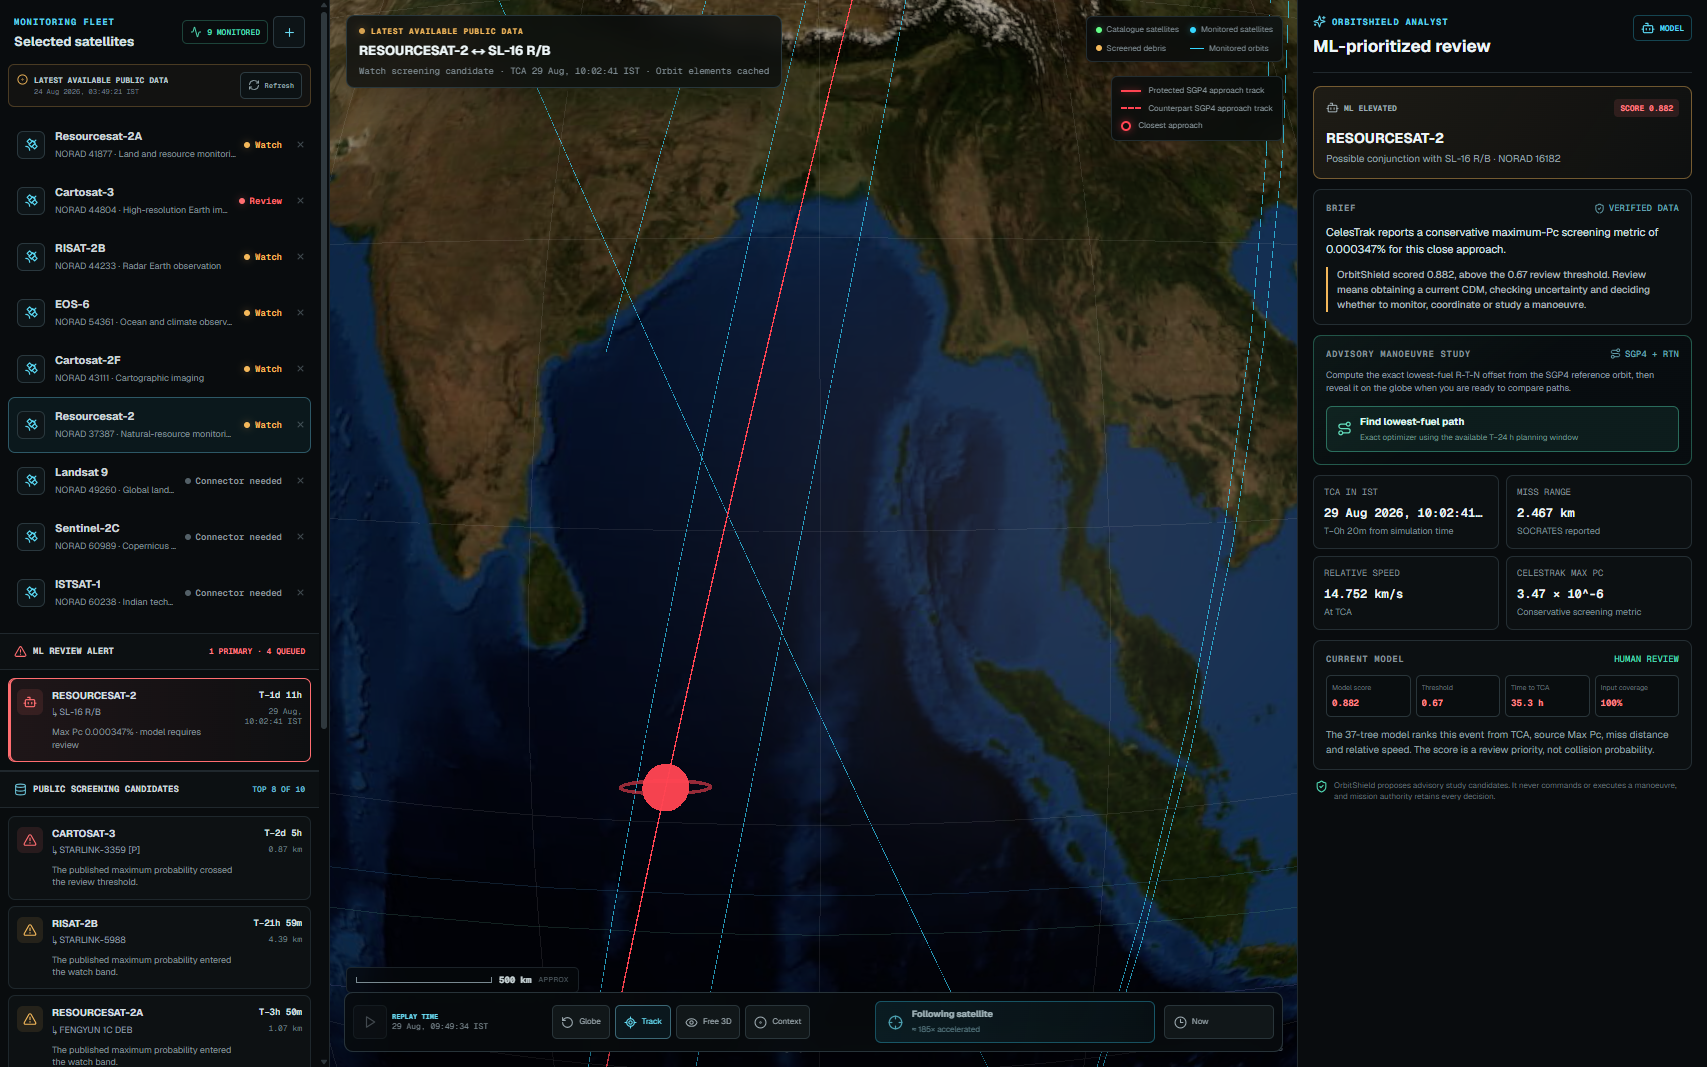
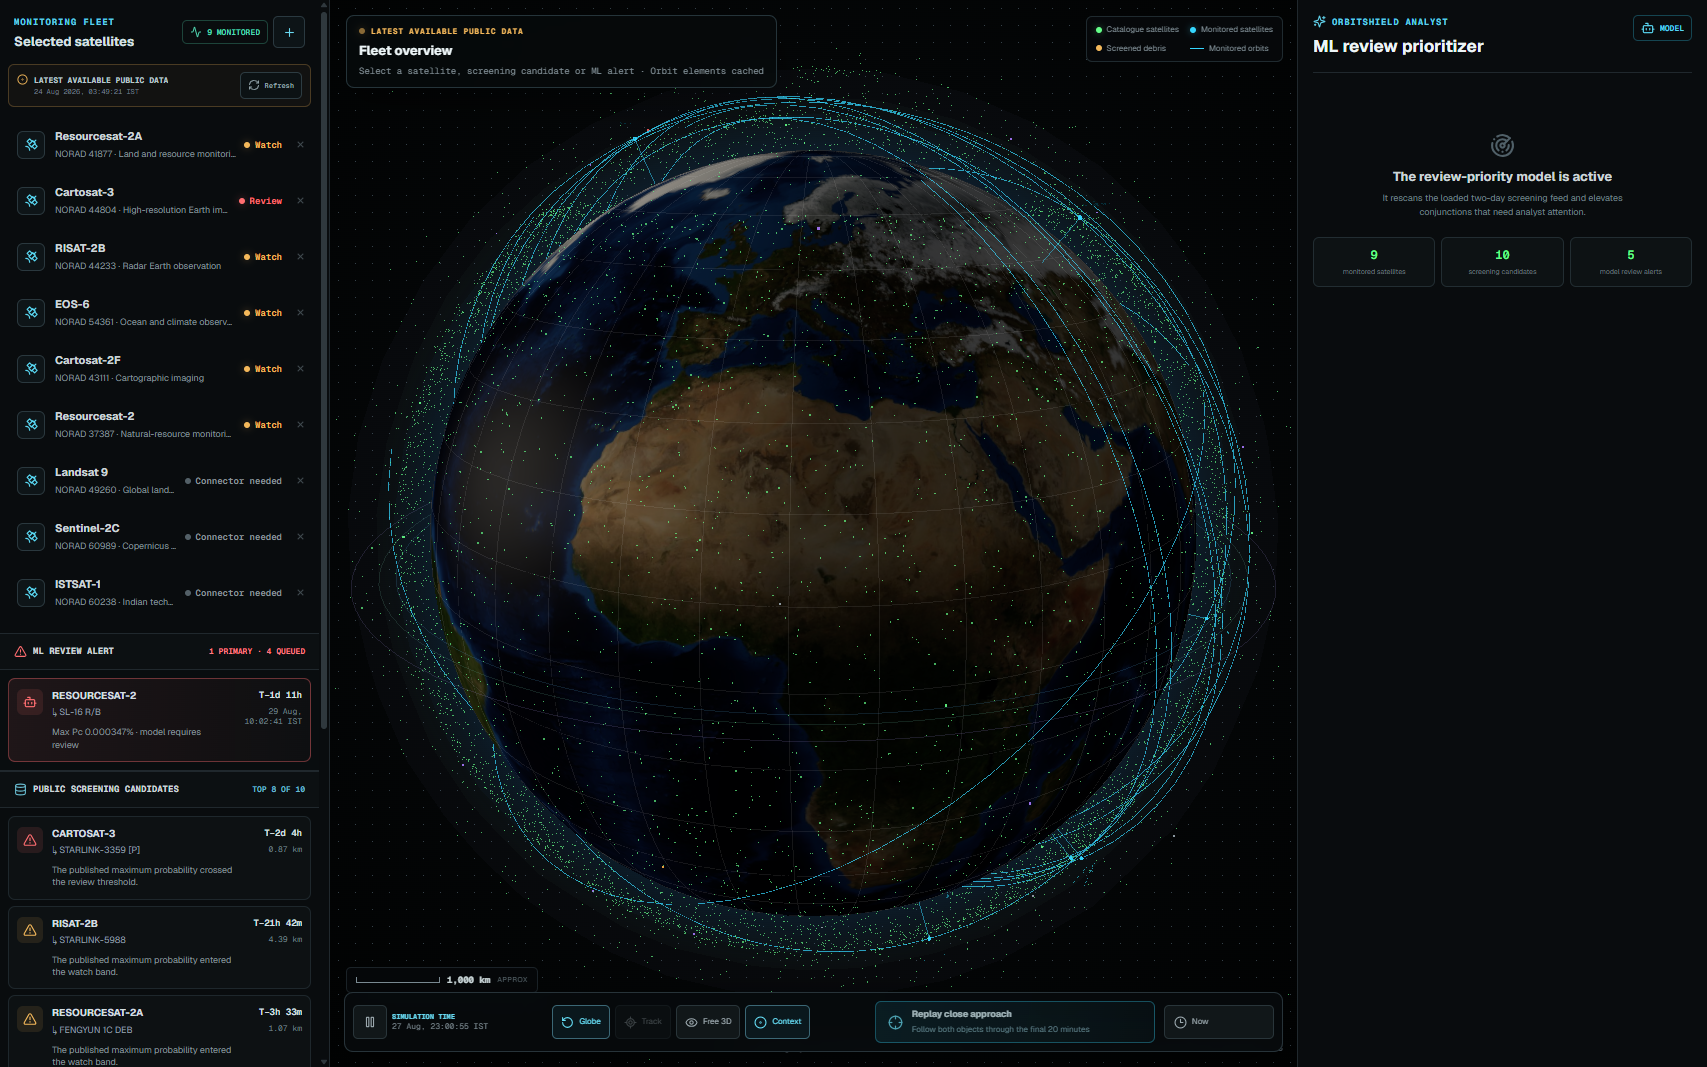
docs: show globe-first landing workspace

diff --git a/README.md b/README.md
@@ -4,7 +4,7 @@
 
 Orbital conjunction monitoring, ML review prioritization, and advisory path studies in one interactive workspace.
 
-![OrbitShield AI monitoring workspace](docs/images/orbitshield-workspace.png)
+![OrbitShield AI globe-first landing workspace](docs/images/orbitshield-workspace.png)
 
 OrbitShield helps a small satellite team answer three questions quickly:
 
